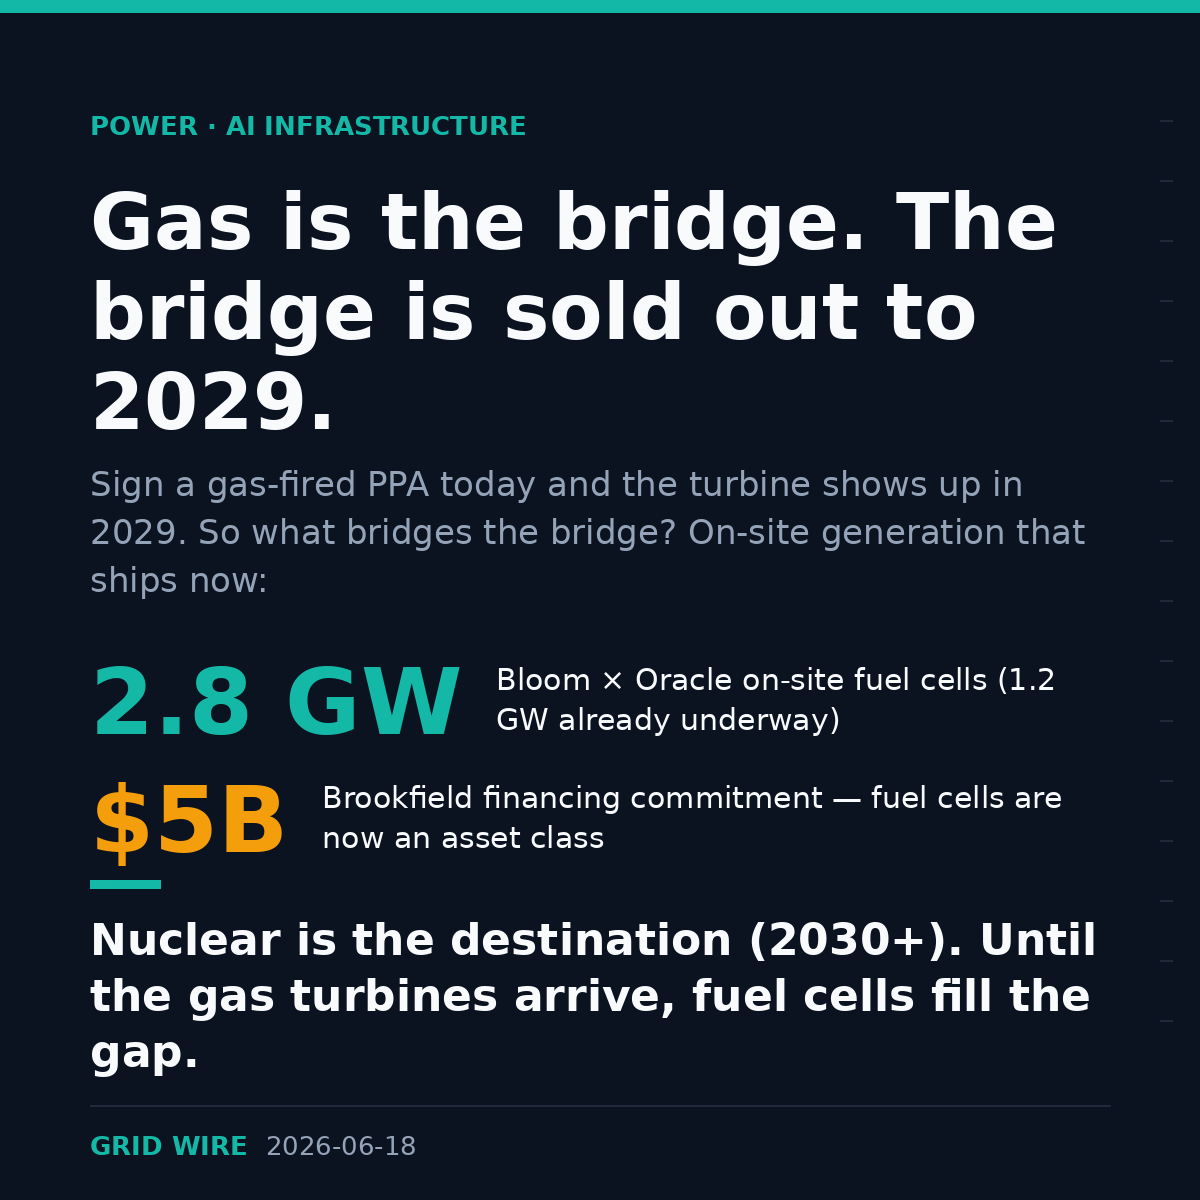
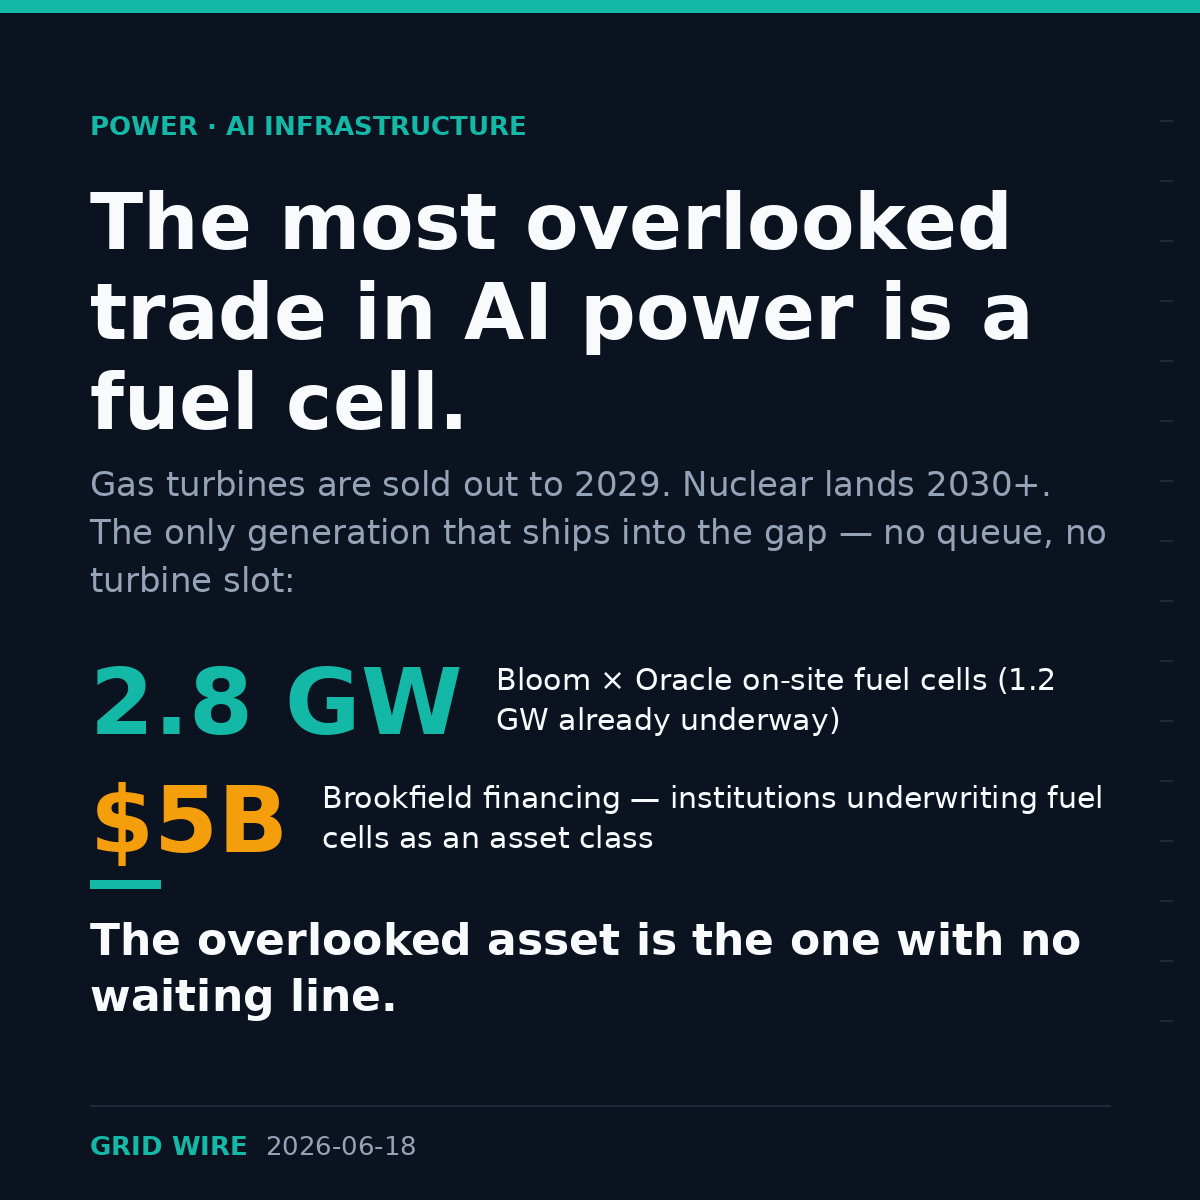
Recenter post 1 on fuel cells as the overlooked AI-power trade
Lead with the fuel-cell thesis (no queue, no turbine slot, capital already in);
gas/nuclear delivery constraints demoted to context. New matching card.

Claude-Session: https://claude.ai/code/session_01GBEi1AkBD3bXo8frjmaYVK

Changed region(s): [[0.0617, 0.1542, 0.925, 0.4933], [0.0617, 0.7708, 0.925, 0.8942], [0.2775, 0.6475, 0.925, 0.7092]]

diff --git a/scripts/make_li_cards.py b/scripts/make_li_cards.py
@@ -102,15 +102,15 @@ def card(path, kicker, claim, support, stats, footer, punch, accent=TEAL):
 card(
     "outputs/reports/li-fuelcells-2026-06-18.png",
     "POWER · AI INFRASTRUCTURE",
-    "Gas is the bridge. The bridge is sold out to 2029.",
-    "Sign a gas-fired PPA today and the turbine shows up in 2029. So what bridges "
-    "the bridge? On-site generation that ships now:",
+    "The most overlooked trade in AI power is a fuel cell.",
+    "Gas turbines are sold out to 2029. Nuclear lands 2030+. The only generation "
+    "that ships into the gap — no queue, no turbine slot:",
     [
         ("2.8 GW", "Bloom × Oracle on-site fuel cells (1.2 GW already underway)", TEAL),
-        ("$5B", "Brookfield financing commitment — fuel cells are now an asset class", AMBER),
+        ("$5B", "Brookfield financing — institutions underwriting fuel cells as an asset class", AMBER),
     ],
     "2026-06-18",
-    "Nuclear is the destination (2030+). Until the gas turbines arrive, fuel cells fill the gap.",
+    "The overlooked asset is the one with no waiting line.",
     accent=TEAL,
 )
 

diff --git a/outputs/reports/li-posts-2026-06-18.md b/outputs/reports/li-posts-2026-06-18.md
@@ -7,24 +7,22 @@ markdown); pair each with its PNG card. Both within LinkedIn's 3,000-char limit.
 
 ## Post 1 — Fuel cells (item 2) · pair with li-fuelcells-2026-06-18.png
 
-Gas is the bridge to nuclear. The bridge is sold out until 2029.
+The most overlooked trade in AI power is a fuel cell.
 
-The consensus has the shape right: nuclear is the long-term baseload answer for AI, and gas is the bridge that carries demand until the reactors arrive. The part nobody is pricing is that the bridge itself is supply-constrained.
+The market has framed the AI power crunch as a two-horse race: gas now, nuclear later. Both horses are stuck at the gate.
 
-You can sign a gas-fired PPA today and not get the machine for years:
-• GE Vernova has roughly 10 GW of turbine capacity left across 2029 and 2030 combined, with new bids pricing 10–20 points higher on $/kW.
-• Siemens Energy is booked through 2028.
-• Lead times are running at three years and stretching.
+Gas is the bridge — but the bridge is sold out. GE Vernova has roughly 10 GW of turbine capacity left across 2029 and 2030 combined, with new bids pricing 10–20 points higher on $/kW; Siemens is booked through 2028. Nuclear is the destination — but SMRs and restarts don't deliver until 2030+.
 
-So if gas is the bridge and the bridge is sold out, what carries demand until the turbines arrive? On-site generation that ships now — and the capital just voted:
-• Bloom and Oracle signed a master agreement for up to 2.8 GW of solid-oxide fuel cells, with 1.2 GW already underway.
-• Brookfield committed up to $5B to finance Bloom deployments — turning on-site fuel cells from a science project into a financeable asset class.
+That leaves a gap across 2026–2029 that nothing in the headline debate can fill. The overlooked answer is already being built and financed: on-site fuel cells.
 
-Policy is bending the same way. Senator Cotton's DATA Act would create an off-grid "consumer-regulated electric utility" category — a clean statutory lane for behind-the-fence load — exactly as FERC (PJM co-location) and Texas SB6 raise the cost of leaning on the grid.
+Why they're underpriced:
+• No queue. No interconnection wait, no turbine slot — modular units deploy in roughly 12–18 months, behind the fence.
+• The capital has already moved. Bloom and Oracle signed a master agreement for up to 2.8 GW of solid-oxide fuel cells, with 1.2 GW underway. Brookfield committed up to $5B to finance Bloom deployments — institutional money underwriting fuel cells as an asset class, not a science project.
+• Policy is clearing the lane. Senator Cotton's DATA Act would create an off-grid "consumer-regulated electric utility" category for behind-the-fence load — exactly as FERC (PJM co-location) and Texas SB6 raise the cost of leaning on the grid.
 
-The contrarian read: fuel cells aren't replacing gas as the bridge, and they aren't replacing nuclear as the destination. They fill the front of the bridge — the 2026–2029 window where the gas turbines simply can't be delivered. For those 36 months the deployable answer is fuel cells and reciprocating engines, not patience. The reprice signal won't be a groundbreaking — it'll be the second and third hyperscaler fuel-cell master agreement, and the first fuel-cell ABS or project-finance print. That's when the market stops calling it a pilot and starts pricing it as infrastructure.
+The mispricing: the bridge-power equity narrative still revolves around gas turbines and reactors, while the only generation that actually ships into the 2026–2029 window gets treated as a niche. The reprice catalyst won't be a groundbreaking — it'll be the second and third hyperscaler fuel-cell master agreement, and the first fuel-cell ABS or project-finance print. That's when the market stops calling it a pilot and starts pricing it as infrastructure.
 
-Watch the deals, not the ribbon-cuttings.
+The overlooked asset is the one with no waiting line.
 
 ---
 
